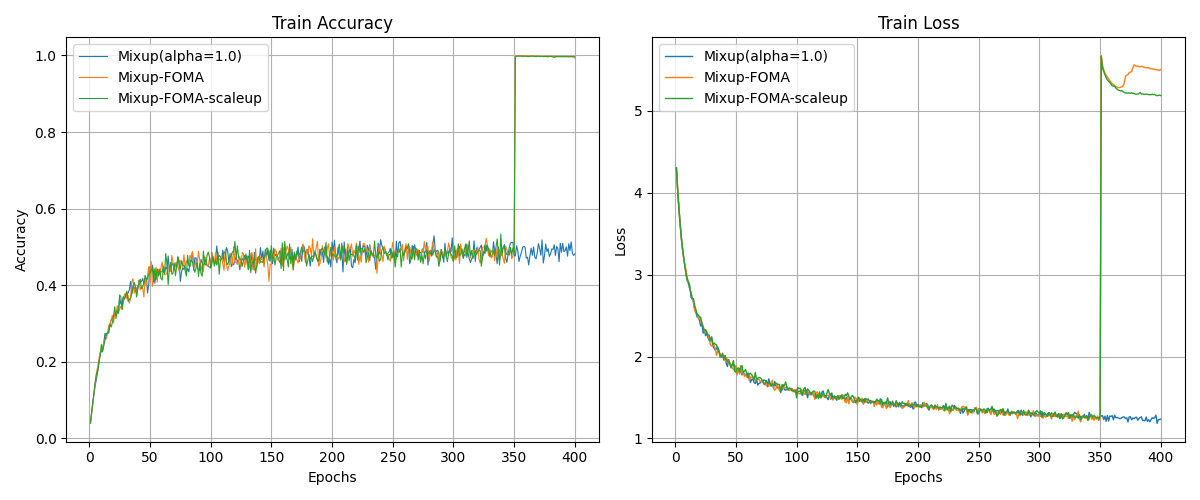
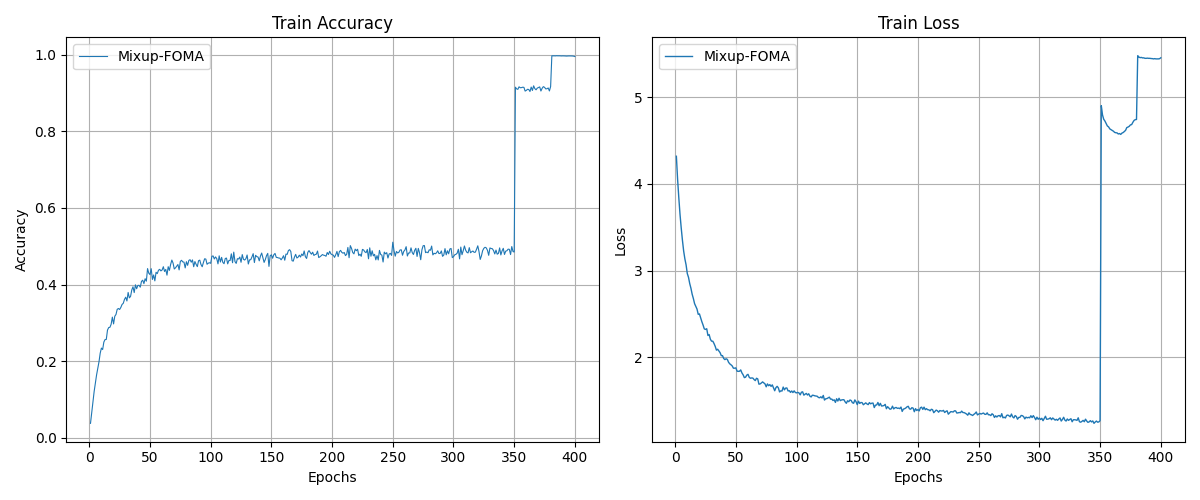
result ploot

diff --git a/result.py b/result.py
@@ -19,13 +19,13 @@ def main():
     
     augmentations = [
         # "Default",
-        "Mixup",
+        # "Mixup",
         # "Manifold-Mixup",
         # "CutMix",
         # "RegMixup",
         # "Local-FOMA",
         "Mixup-FOMA",
-        "Mixup-FOMA-scaleup"
+        # "Mixup-FOMA-scaleup"
 
         # "Original",
         # "PCA",
